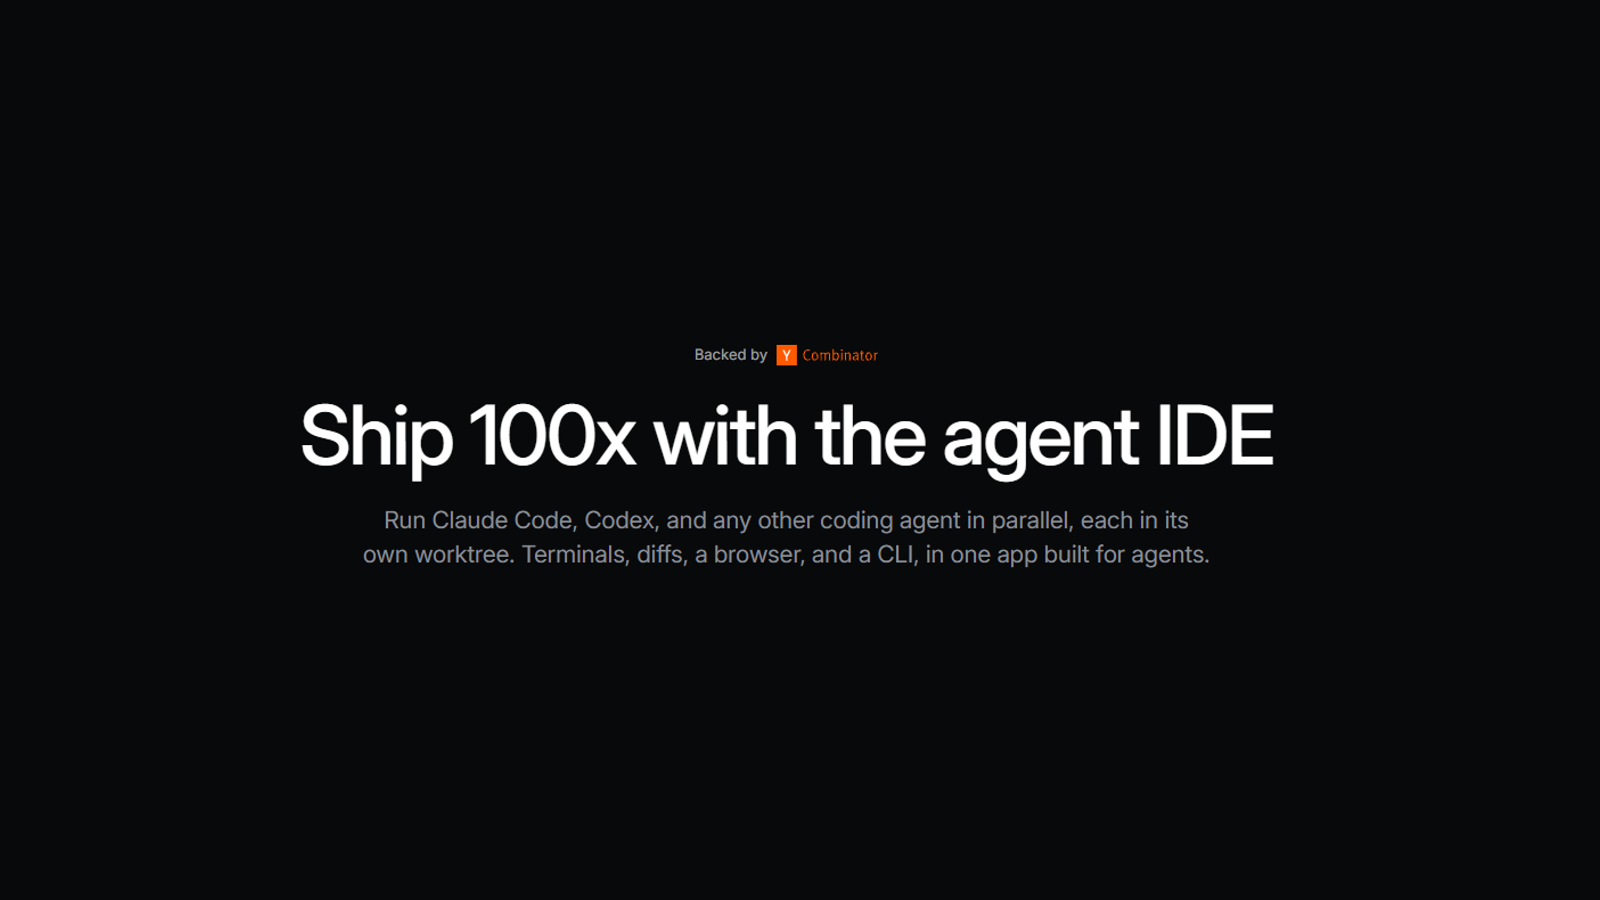
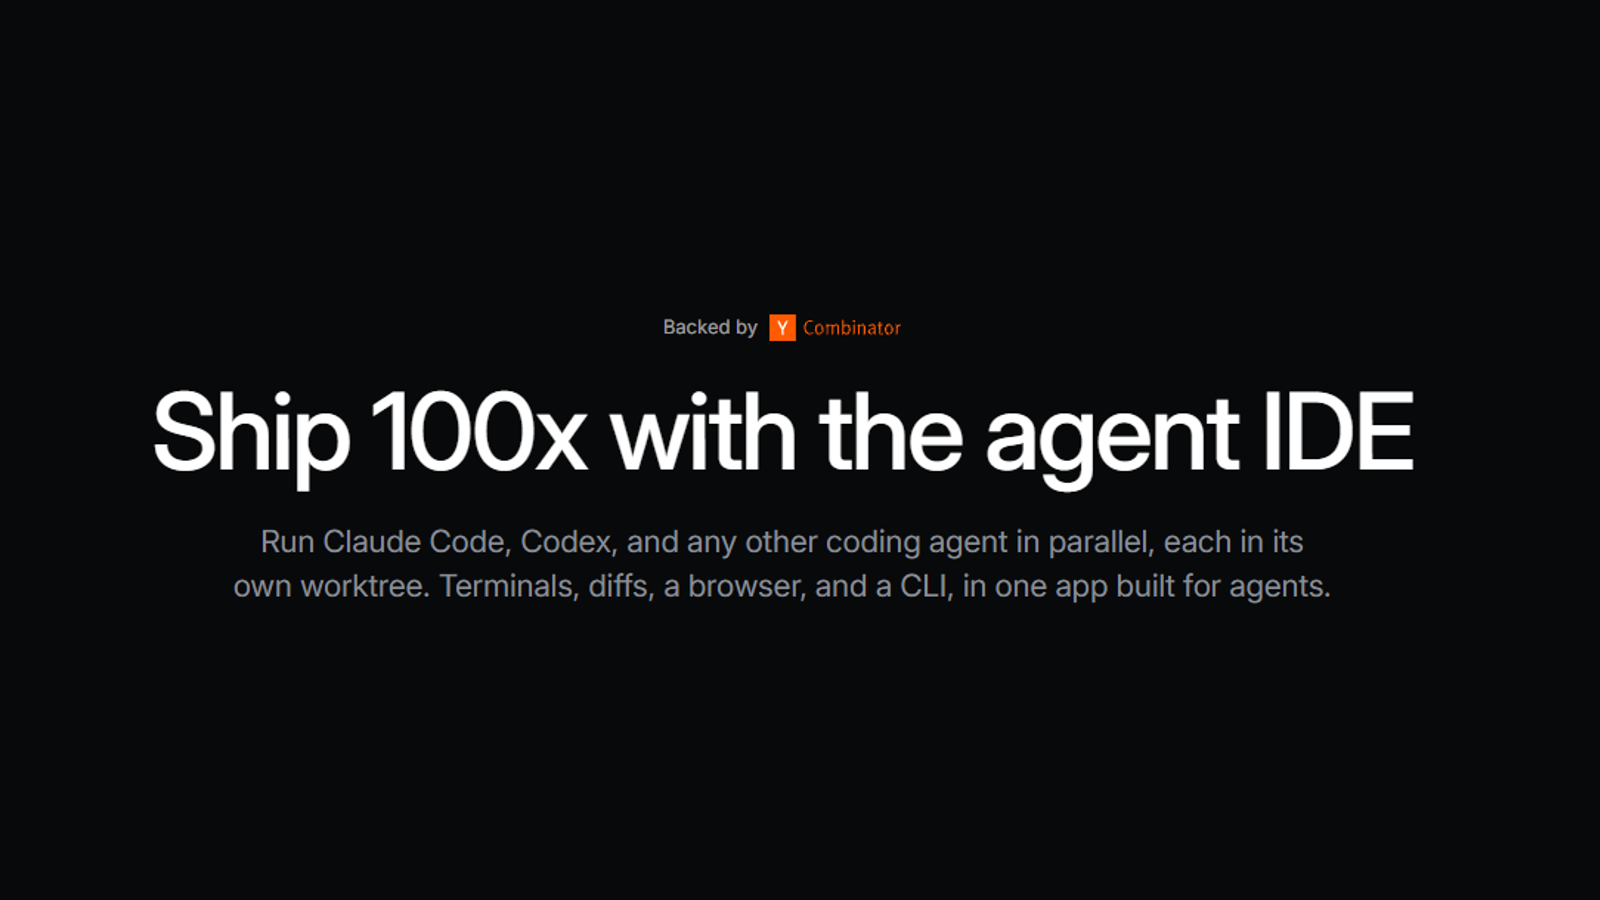
feat(blog): update Orca article with interface, kanban screenshots and TL;DR box

Changed region(s): [[0.0938, 0.4356, 0.9062, 0.6844], [0.4062, 0.3422, 0.5625, 0.4044]]

diff --git a/src/data/post/orca.md b/src/data/post/orca.md
@@ -3,7 +3,7 @@ publishDate: 2026-10-28T18:00:00Z
 title: 'Orca, mon précieux ! Pourquoi je migre de PyCharm'
 excerpt: 'Savoir quel agent fait quoi et ce qu''il coûte à la machine, des kanbans, un crayon dans le navigateur, une course entre trois agents : les killer features qui me font migrer vers Orca.'
 image: ~/assets/images/orca-cover-site.png
-imageAlt: 'Page d''accueil d''Orca : « Ship 100x with the agent IDE ». Visuel : onorca.dev'
+imageAlt: 'Page d''accueil d''Orca sur fond noir : le slogan « Ship 100x with the agent IDE » et une phrase expliquant qu''on y lance des agents de code en parallèle, chacun dans son propre worktree. Visuel : onorca.dev'
 category: Outils
 tags:
   - orca
@@ -12,17 +12,25 @@ tags:
   - pycharm
 ---
 
+<div class="tldr">
+
 ⚡ **TL;DR : l'article en 3 points**
 
 - **Pourquoi je migre** : Orca range chaque tâche dans son propre git worktree, avec son terminal, son navigateur et l'état de son agent. Les agents arrêtent de se marcher dessus.
 - **Les killer features** : voir quel agent fait quoi et ce qu'il consomme sur ma machine, deux kanbans (worktrees et agents), sélectionner, annoter ou dessiner dans le navigateur ce que je veux modifier, et faire courir trois agents sur la même tâche (pas encore testé).
 - **Ce qu'il fait moins bien** : la dictée vocale (Wispr Flow fait mieux), pas de vraie sandbox, pas de modèle intégré. PyCharm garde ses atouts.
 
+</div>
+
 Un agent de code seul dans un dépôt, c'est confortable. Trois agents dans le même dossier, c'est un open space sans cloisons : chacun écrit dans les fichiers des autres, et personne ne sait quelle branche est la bonne. Orca installe les cloisons.
 
 Je cherchais un moyen efficace d'organiser mon travail. Passer d'une tâche longue, menée par une équipe d'agents, à une autre sur le même dépôt, sans que mes essaims d'agents se prennent les pieds dans le tapis d'une tâche à l'autre. Jusque-là, j'attendais la fin de la tâche, ou je basculais sur un autre dépôt le temps qu'elle se termine.
 
 Je suis en train de migrer de PyCharm vers Orca. Pas contre PyCharm, qui reste un excellent IDE : parce que ma façon de travailler a changé. Voici ce qui m'a fait basculer.
+
+![Capture de l'interface d'Orca : quatre terminaux d'agents côte à côte au centre, la liste des espaces de travail classés en Todo, In progress et Done à gauche, l'arborescence des fichiers du dépôt à droite.](../../assets/images/orca-interface.png)
+
+l'interface d'Orca : les worktrees par statut, quatre agents en parallèle, l'arborescence du dépôt
 
 ## Killer feature 1 : un worktree par tâche, et les agents arrêtent de se marcher dessus
 
@@ -54,7 +62,7 @@ Côté CLI, `orca diagnostics memory` produit un instantané mémoire d'Orca et 
 
 Voici ce que donne le Resource Manager (« Gestionnaire de ressources » dans l'interface française) sur ma machine, avec un espace de travail actif : un onglet Ressources et un onglet PTY, une ligne par worktree puis par terminal, et en bas Orca lui-même.
 
-![Gestionnaire de ressources d'Orca : 2,5 % de processeur et 3,34 Go de mémoire au total, détaillés par worktree et par terminal](../../assets/images/orca-ressources.png)
+![Panneau « Gestionnaire de ressources » d'Orca : 2,5 % de processeur et 3,34 Go de mémoire au total. Le worktree « articles orca » occupe 2,44 Go sur quatre terminaux, dont un à 1,44 Go. Orca lui-même occupe 912 Mo.](../../assets/images/orca-ressources.png)
 
 le gestionnaire de ressources : processeur et mémoire par worktree, par terminal, et pour Orca lui-même
 
@@ -74,7 +82,11 @@ passer le worktree courant en revue
 
 Une ligne de commentaire, modifiable avec `--comment`, s'affiche sur la carte. Le raccourci « Toggle Workspace Board » n'est lié à aucune touche par défaut : à assigner dans Settings → Shortcuts. Pour quelqu'un qui jongle avec cinq tâches, c'est plus lisible qu'une pile de terminaux.
 
-Chez moi, le tableau s'ouvre par-dessus le terminal. Je clique sur une carte, je la glisse d'une colonne à l'autre (dans l'interface : Todo, In progress, In review, Done), et la zone « Épinglés » en haut permet de garder une carte à portée sans changer son statut. Je commence tout juste à m'en servir : pour l'instant, mes trois worktrees tiennent sur un coup d'œil.
+Chez moi, je glisse un worktree sur le côté, par-dessus mon terminal, et le kanban apparaît, comme sur cette capture. Je clique sur une carte, je la glisse d'une colonne à l'autre (Todo, In progress, In review, Done), et la zone « Épinglés » en haut permet de garder une carte à portée sans changer son statut. Je commence tout juste à m'en servir : pour l'instant, mes trois worktrees tiennent sur un coup d'œil.
+
+![Tableau des espaces de travail d'Orca : quatre colonnes Todo, In progress, In review et Done. Le worktree « articles orca » est en cours de déplacement, avec ses quatre agents listés dans sa carte, et la zone « Épinglés » apparaît en haut.](../../assets/images/orca-kanban.png)
+
+le kanban des worktrees ouvert par-dessus le terminal : une carte glissée entre deux colonnes
 
 ## Killer feature 4 : le navigateur où l'on montre à l'agent ce qu'on veut
 
@@ -84,7 +96,7 @@ Orca embarque un navigateur Chromium par worktree. Il sert à voir ce que l'agen
 - **L'annoter.** Un plateau d'annotations permet de garder plusieurs notes sur la page, chacune avec son commentaire, avant de les envoyer à l'agent.
 - **Dessiner sur la capture.** Le bouton « Dessiner sur la capture d'écran » ouvre une barre d'outils : crayon, surligneur, flèche, rectangle, cercle, texte, gomme, couleur, taille, annuler et rétablir. Vous entourez la zone, vous flèchez l'élément, vous écrivez à côté ce que vous voulez, puis « Copier le markup » et vous le collez dans votre agent.
 
-![Capture du blog DataStart avec le titre entouré en rouge et une flèche dessinés dans le navigateur d'Orca](../../assets/images/orca-dessin-capture.png)
+![Page d'accueil du blog DataStart dans le navigateur d'Orca : le titre « DataStart » est entouré en rouge et une flèche rouge part vers la droite, pour demander à l'agent de déplacer ce titre.](../../assets/images/orca-dessin-capture.png)
 
 dessin sur la capture : le titre entouré et une flèche, prêts à être copiés vers l'agent
 
